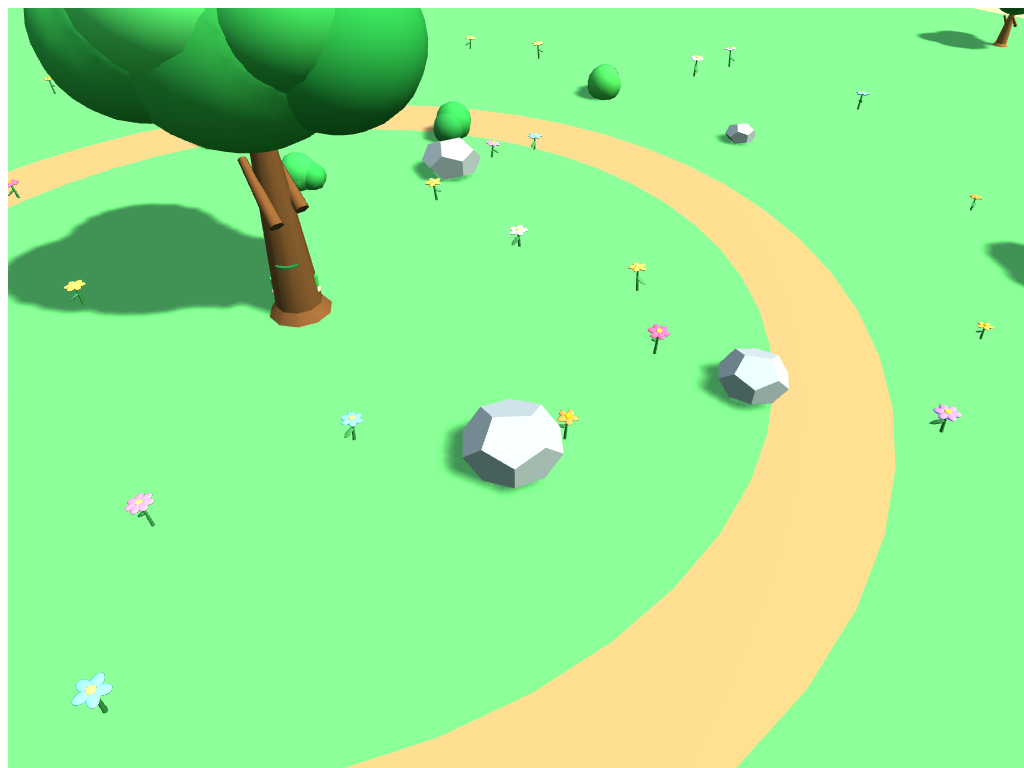
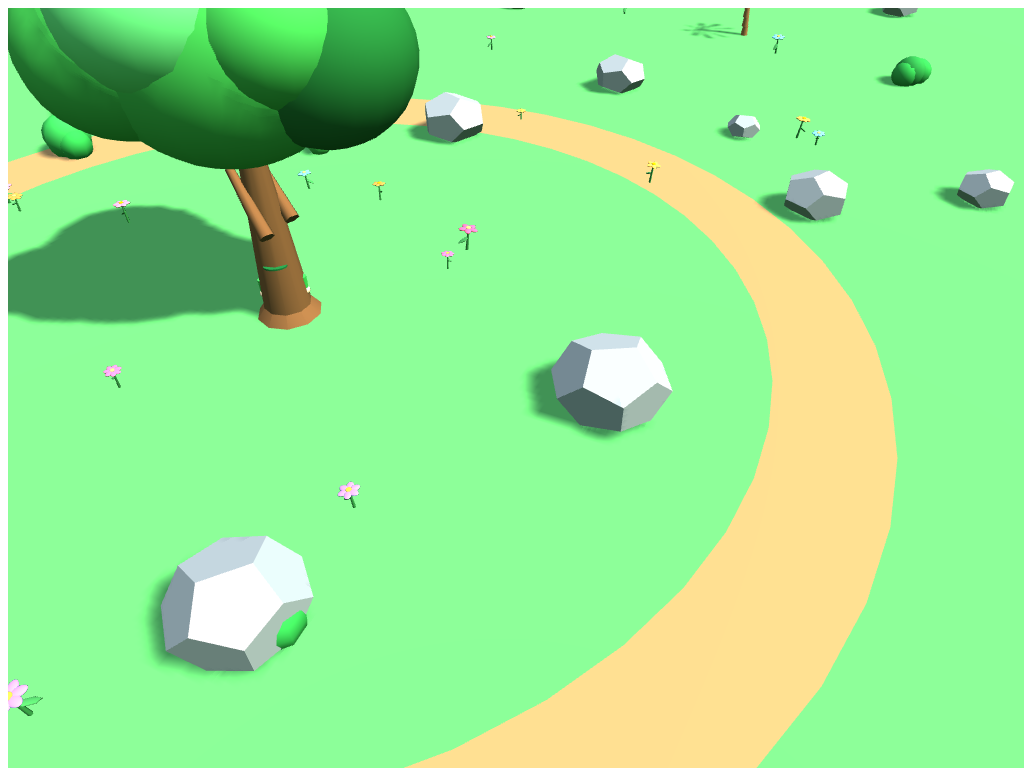
fix: rebuild active decorative world

diff --git a/web/src/main.js b/web/src/main.js
@@ -201,35 +201,39 @@ function makeFlower(){
   return g;}
 
 function scatter(n,maker,rMin=6,rMax=WORLD_R+6,collect){
+  const created=[];
   for(let i=0;i<n;i++){const a=Math.random()*Math.PI*2,r=rand(rMin,rMax);
     const o=maker();o.position.set(Math.cos(a)*r,o.position.y,Math.sin(a)*r);
-    o.rotation.y=Math.random()*Math.PI*2;scene.add(o);if(collect)collect.push(o);}}
+    o.rotation.y=Math.random()*Math.PI*2;scene.add(o);created.push(o);if(collect)collect.push(o);}
+  return created;
+}
 
-// rocks
-scatter(14,()=>{const s=rand(.5,1.6);
-  const m=new THREE.Mesh(new THREE.DodecahedronGeometry(s,0),mat(0x9aa0a6));
-  m.position.y=s*.5;m.castShadow=m.receiveShadow=true;m.scale.y=.7;return m;});
-// flowers (enhanced) — kept in array for sway
 const flowers=[];
-scatter(70,makeFlower,5,WORLD_R+4,flowers);
-// bushes
-scatter(16,()=>{const g=new THREE.Group();
-  for(let i=0;i<3;i++){const s=rand(.5,.9);
-    const b=new THREE.Mesh(new THREE.SphereGeometry(s,8,8),leafMat(pick(GREEN_MID)));
-    b.position.set(rand(-.5,.5),s*.7,rand(-.5,.5));b.castShadow=true;g.add(b);}return g;},8);
-// decorative full-grown trees scattered around the island
-scatter(10,makeTree,20,WORLD_R+5);
-// clouds
 const clouds=[];
-for(let i=0;i<7;i++){const g=new THREE.Group();
-  for(let j=0;j<4;j++){const s=rand(1.4,3);
-    const c=new THREE.Mesh(new THREE.SphereGeometry(s,8,8),
-      new THREE.MeshStandardMaterial({color:0xffffff,roughness:1,transparent:true,opacity:.9}));
-    c.position.set(j*2.2-3+rand(-.5,.5),rand(-.4,.4),rand(-1,1));g.add(c);}
-  g.position.set(rand(-70,70),rand(22,32),rand(-70,70));
-  g.userData.spd=rand(.5,1.2);scene.add(g);clouds.push(g);}
-// big landmark tree (the "grandma tree") — enhanced broadleaf, scaled up
-(function(){const g=makeBroadleaf();g.scale.setScalar(2.4);g.position.set(0,0,0);scene.add(g);})();
+const worldObjects=[];
+
+function buildDecorativeWorld(){
+  flowers.length=0;
+  clouds.length=0;
+  worldObjects.push(...scatter(14,()=>{const s=rand(.5,1.6);
+    const m=new THREE.Mesh(new THREE.DodecahedronGeometry(s,0),mat(0x9aa0a6));
+    m.position.y=s*.5;m.castShadow=m.receiveShadow=true;m.scale.y=.7;return m;}));
+  worldObjects.push(...scatter(70,makeFlower,5,WORLD_R+4,flowers));
+  worldObjects.push(...scatter(16,()=>{const g=new THREE.Group();
+    for(let i=0;i<3;i++){const s=rand(.5,.9);
+      const b=new THREE.Mesh(new THREE.SphereGeometry(s,8,8),leafMat(pick(GREEN_MID)));
+      b.position.set(rand(-.5,.5),s*.7,rand(-.5,.5));b.castShadow=true;g.add(b);}return g;},8));
+  worldObjects.push(...scatter(10,makeTree,20,WORLD_R+5));
+  for(let i=0;i<7;i++){const g=new THREE.Group();
+    for(let j=0;j<4;j++){const s=rand(1.4,3);
+      const c=new THREE.Mesh(new THREE.SphereGeometry(s,8,8),
+        new THREE.MeshStandardMaterial({color:0xffffff,roughness:1,transparent:true,opacity:.9}));
+      c.position.set(j*2.2-3+rand(-.5,.5),rand(-.4,.4),rand(-1,1));g.add(c);}
+    g.position.set(rand(-70,70),rand(22,32),rand(-70,70));
+    g.userData.spd=rand(.5,1.2);scene.add(g);clouds.push(g);worldObjects.push(g);}
+  const landmark=makeBroadleaf();
+  landmark.scale.setScalar(2.4);landmark.position.set(0,0,0);scene.add(landmark);worldObjects.push(landmark);
+}
 
 /* ---------------- Character builders ---------------- */
 function makeEyes(g,y,z,spread=.16,r=.09){
@@ -538,6 +542,12 @@ function cleanupLevelAttempt(){
   patches.length=0;
   mtermish=null;
 }
+function cleanupDecorativeWorld(){
+  worldObjects.forEach(removeAttemptObject);
+  worldObjects.length=0;
+  flowers.length=0;
+  clouds.length=0;
+}
 function formatTime(seconds){
   const safe=Math.max(0,seconds||0);
   const minutes=Math.floor(safe/60);
@@ -559,6 +569,7 @@ function recordBestTime(level,seconds){
   }
   return { best:prev, isNew:false, previous:prev };
 }
+buildDecorativeWorld();
 
 /* ---------------- Game state ---------------- */
 const Game={
@@ -572,6 +583,8 @@ const Game={
   startLevel(n){
     this.clearTimers();
     cleanupLevelAttempt();
+    cleanupDecorativeWorld();
+    buildDecorativeWorld();
     this.level=n;this.converted=0;this.spawned=0;this.spawnTimer=2;this.trees=0;this.nearPatch=null;this.plantCd=0;this.elapsed=0;
     const nTrash=9+n*3, nPatch=2+Math.min(n,5);
     for(let i=0;i<nTrash;i++)spawnTrash();

diff --git a/test/active-world-lifecycle.test.js b/test/active-world-lifecycle.test.js
@@ -1,0 +1,21 @@
+import assert from 'node:assert/strict';
+import { readFileSync } from 'node:fs';
+import { test } from 'node:test';
+
+const source = readFileSync(new URL('../web/src/main.js', import.meta.url), 'utf8');
+
+test('active decorative world is built through a reusable lifecycle', () => {
+  assert.match(source, /const worldObjects=\[\]/);
+  assert.match(source, /function buildDecorativeWorld\(\)/);
+  assert.match(source, /worldObjects\.push\(\.\.\.scatter\(14/);
+  assert.match(source, /worldObjects\.push\(\.\.\.scatter\(70,makeFlower/);
+  assert.match(source, /clouds\.push\(g\);worldObjects\.push\(g\)/);
+  assert.match(source, /worldObjects\.push\(landmark\)/);
+});
+
+test('active level start rebuilds and disposes decorative world objects', () => {
+  assert.match(source, /function cleanupDecorativeWorld\(\)/);
+  assert.match(source, /worldObjects\.forEach\(removeAttemptObject\)/);
+  assert.match(source, /flowers\.length=0;\s*clouds\.length=0/);
+  assert.match(source, /cleanupDecorativeWorld\(\);\s*buildDecorativeWorld\(\);\s*this\.level=n/);
+});

diff --git a/test/active-game-cleanup.test.js b/test/active-game-cleanup.test.js
@@ -9,7 +9,7 @@ test('active level start tears down previous gameplay objects', () => {
   assert.match(source, /trash\.forEach\(t=>removeAttemptObject\(t\.mesh\)\)/);
   assert.match(source, /villains\.forEach\(v=>removeAttemptObject\(v\.mesh\)\)/);
   assert.match(source, /patches\.forEach\(p=>\{\s*removeAttemptObject\(p\.tree\);\s*removeAttemptObject\(p\.mesh\);/);
-  assert.match(source, /cleanupLevelAttempt\(\);\s*this\.level=n/);
+  assert.match(source, /cleanupLevelAttempt\(\);\s*cleanupDecorativeWorld\(\);\s*buildDecorativeWorld\(\);\s*this\.level=n/);
 });
 
 test('active game keeps level tree count separate from lifetime count', () => {

diff --git a/docs/modular-offline-tauri-roadmap.md b/docs/modular-offline-tauri-roadmap.md
@@ -71,14 +71,14 @@
 
 ## Prototype Cleanup And Known Issues
 
-- [ ] Fix cumulative world state across levels.
-- [ ] Move decorative world generation into the level-attempt lifecycle instead of running it only once at module load.
+- [x] Fix cumulative world state across levels.
+- [x] Move decorative world generation into the level-attempt lifecycle instead of running it only once at module load.
 - [x] Clear old planted patches and planted trees when starting a new level attempt unless a future mode explicitly needs persistent progression.
 - [x] Reset per-level patch counts so the mission card does not show trees from previous levels.
 - [x] Decide whether `Game.trees` is lifetime total, per-level total, or both.
 - [x] If lifetime and per-level tree counts are both needed, track them as separate fields.
 - [x] Add a level-attempt cleanup function that removes all gameplay objects.
-- [ ] Add a world cleanup function that removes all decorative objects created for the attempt.
+- [x] Add a world cleanup function that removes all decorative objects created for the attempt.
 - [x] Dispose geometries, materials, and textures for removed objects.
 - [x] Review the shared material cache and define which materials are global and which are attempt-scoped.
 - [x] Avoid silent trash spawn failure when the trash cap is reached.
@@ -230,11 +230,11 @@
 - [ ] Show or log the seed for debugging.
 - [ ] Replace all `Math.random()` calls with seeded random helpers.
 - [ ] Route mesh builder variation such as tree type, bark color, petal count, petal color, trash type, and cloud placement through seeded random helpers.
-- [ ] Rebuild the full gameplay and decorative scene for each level attempt.
-- [ ] Do not let authored or generated level attempts inherit stale objects from previous attempts.
+- [x] Rebuild the full gameplay and decorative scene for each level attempt.
+- [x] Do not let authored or generated level attempts inherit stale objects from previous attempts.
 - [ ] Randomize trash placement each attempt.
 - [ ] Randomize planting patch placement each attempt.
-- [ ] Randomize decorative flowers, rocks, trees, clouds, and scene details each attempt.
+- [x] Randomize decorative flowers, rocks, trees, clouds, and scene details each attempt.
 - [ ] Randomize villain spawn timing within level-defined limits.
 - [x] Randomize player starting position within valid spawn zones.
 - [ ] Prevent random placement from blocking objectives.
@@ -244,8 +244,8 @@
 - [ ] Limit regeneration attempts and report a clear layout-generation error if no valid seed/layout can be found.
 - [ ] Add deterministic replay support by reusing a saved seed.
 - [ ] Add seeded layout snapshots for debugging failed tests or bug reports.
-- [ ] Add explicit cleanup before loading a new level attempt.
-- [ ] Dispose removed Three.js geometries, materials, textures, and generated objects to avoid GPU memory leaks.
+- [x] Add explicit cleanup before loading a new level attempt.
+- [x] Dispose removed Three.js geometries, materials, textures, and generated objects to avoid GPU memory leaks.
 
 ## Single Player Mode
 
@@ -511,7 +511,7 @@
 - [ ] New modes can be added by registering a new game mode.
 - [ ] Scene layout changes each attempt unless the same seed is reused.
 - [ ] Same seed produces the same gameplay and decorative layout.
-- [ ] Level unload disposes generated Three.js resources.
+- [x] Level unload disposes generated Three.js resources.
 - [x] Single-player mode records completion time.
 - [ ] Two-player race mode declares the faster player.
 - [ ] The game enters full-screen or viewport-filling play mode.